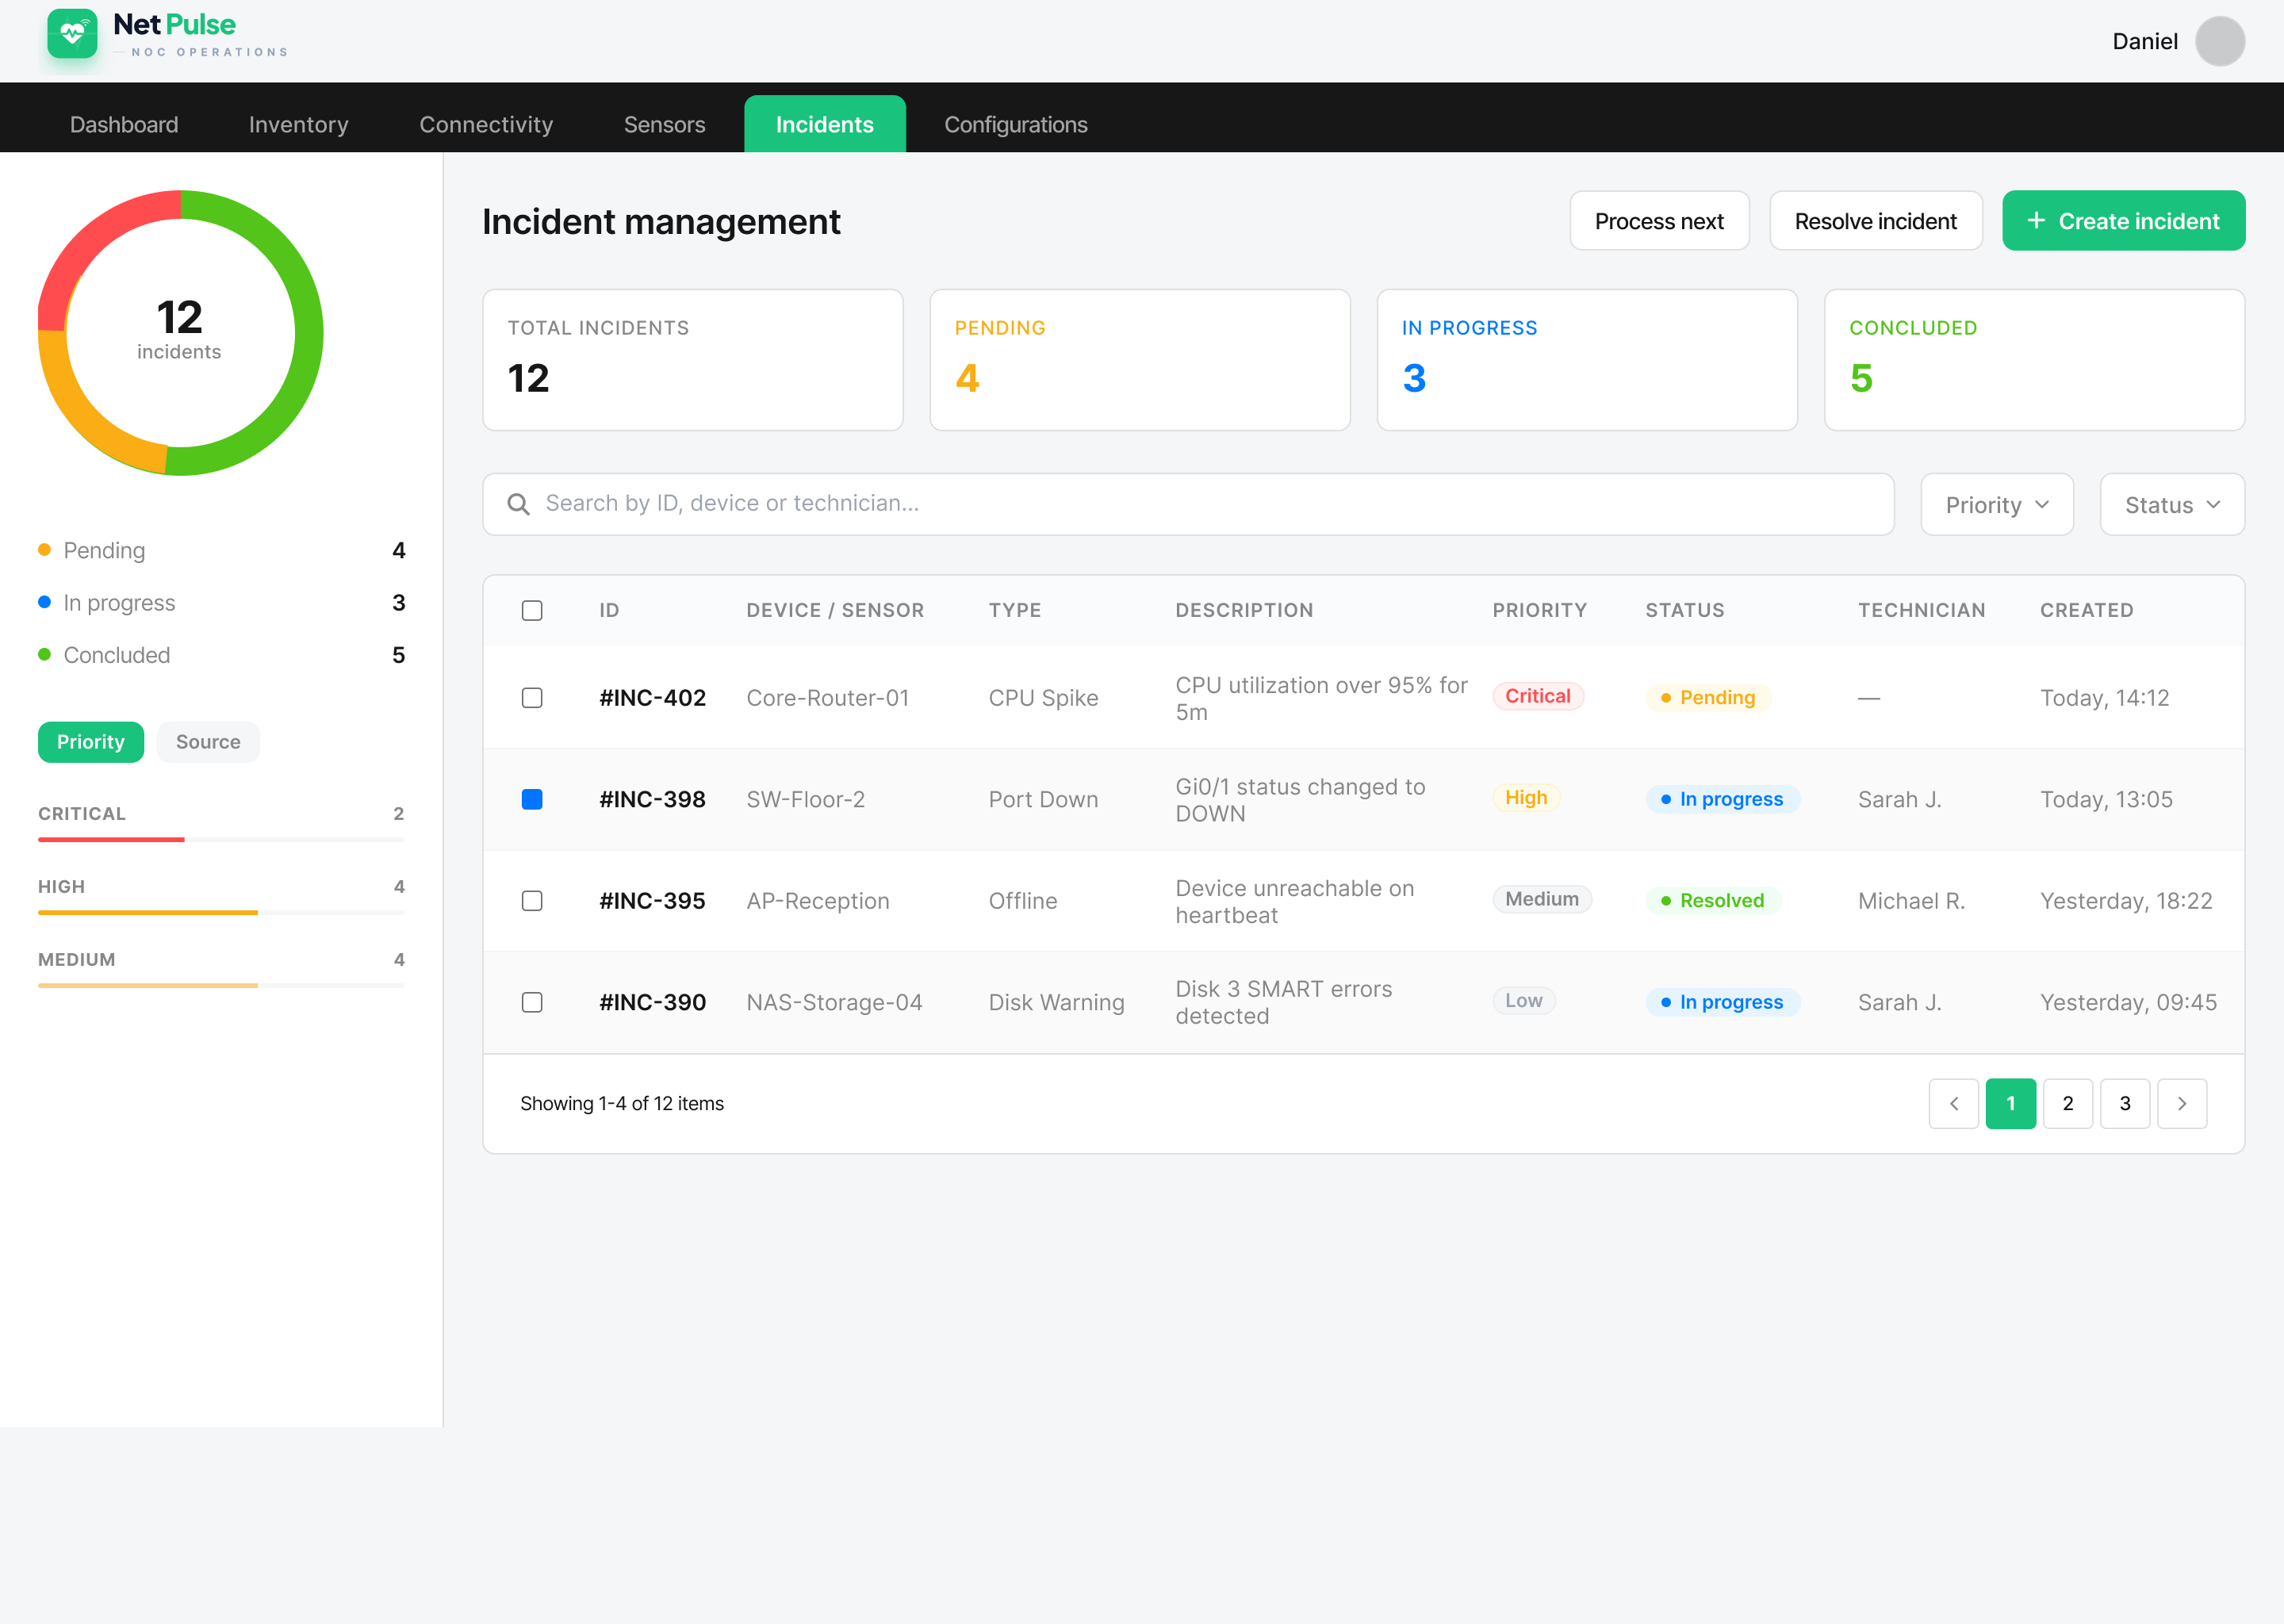
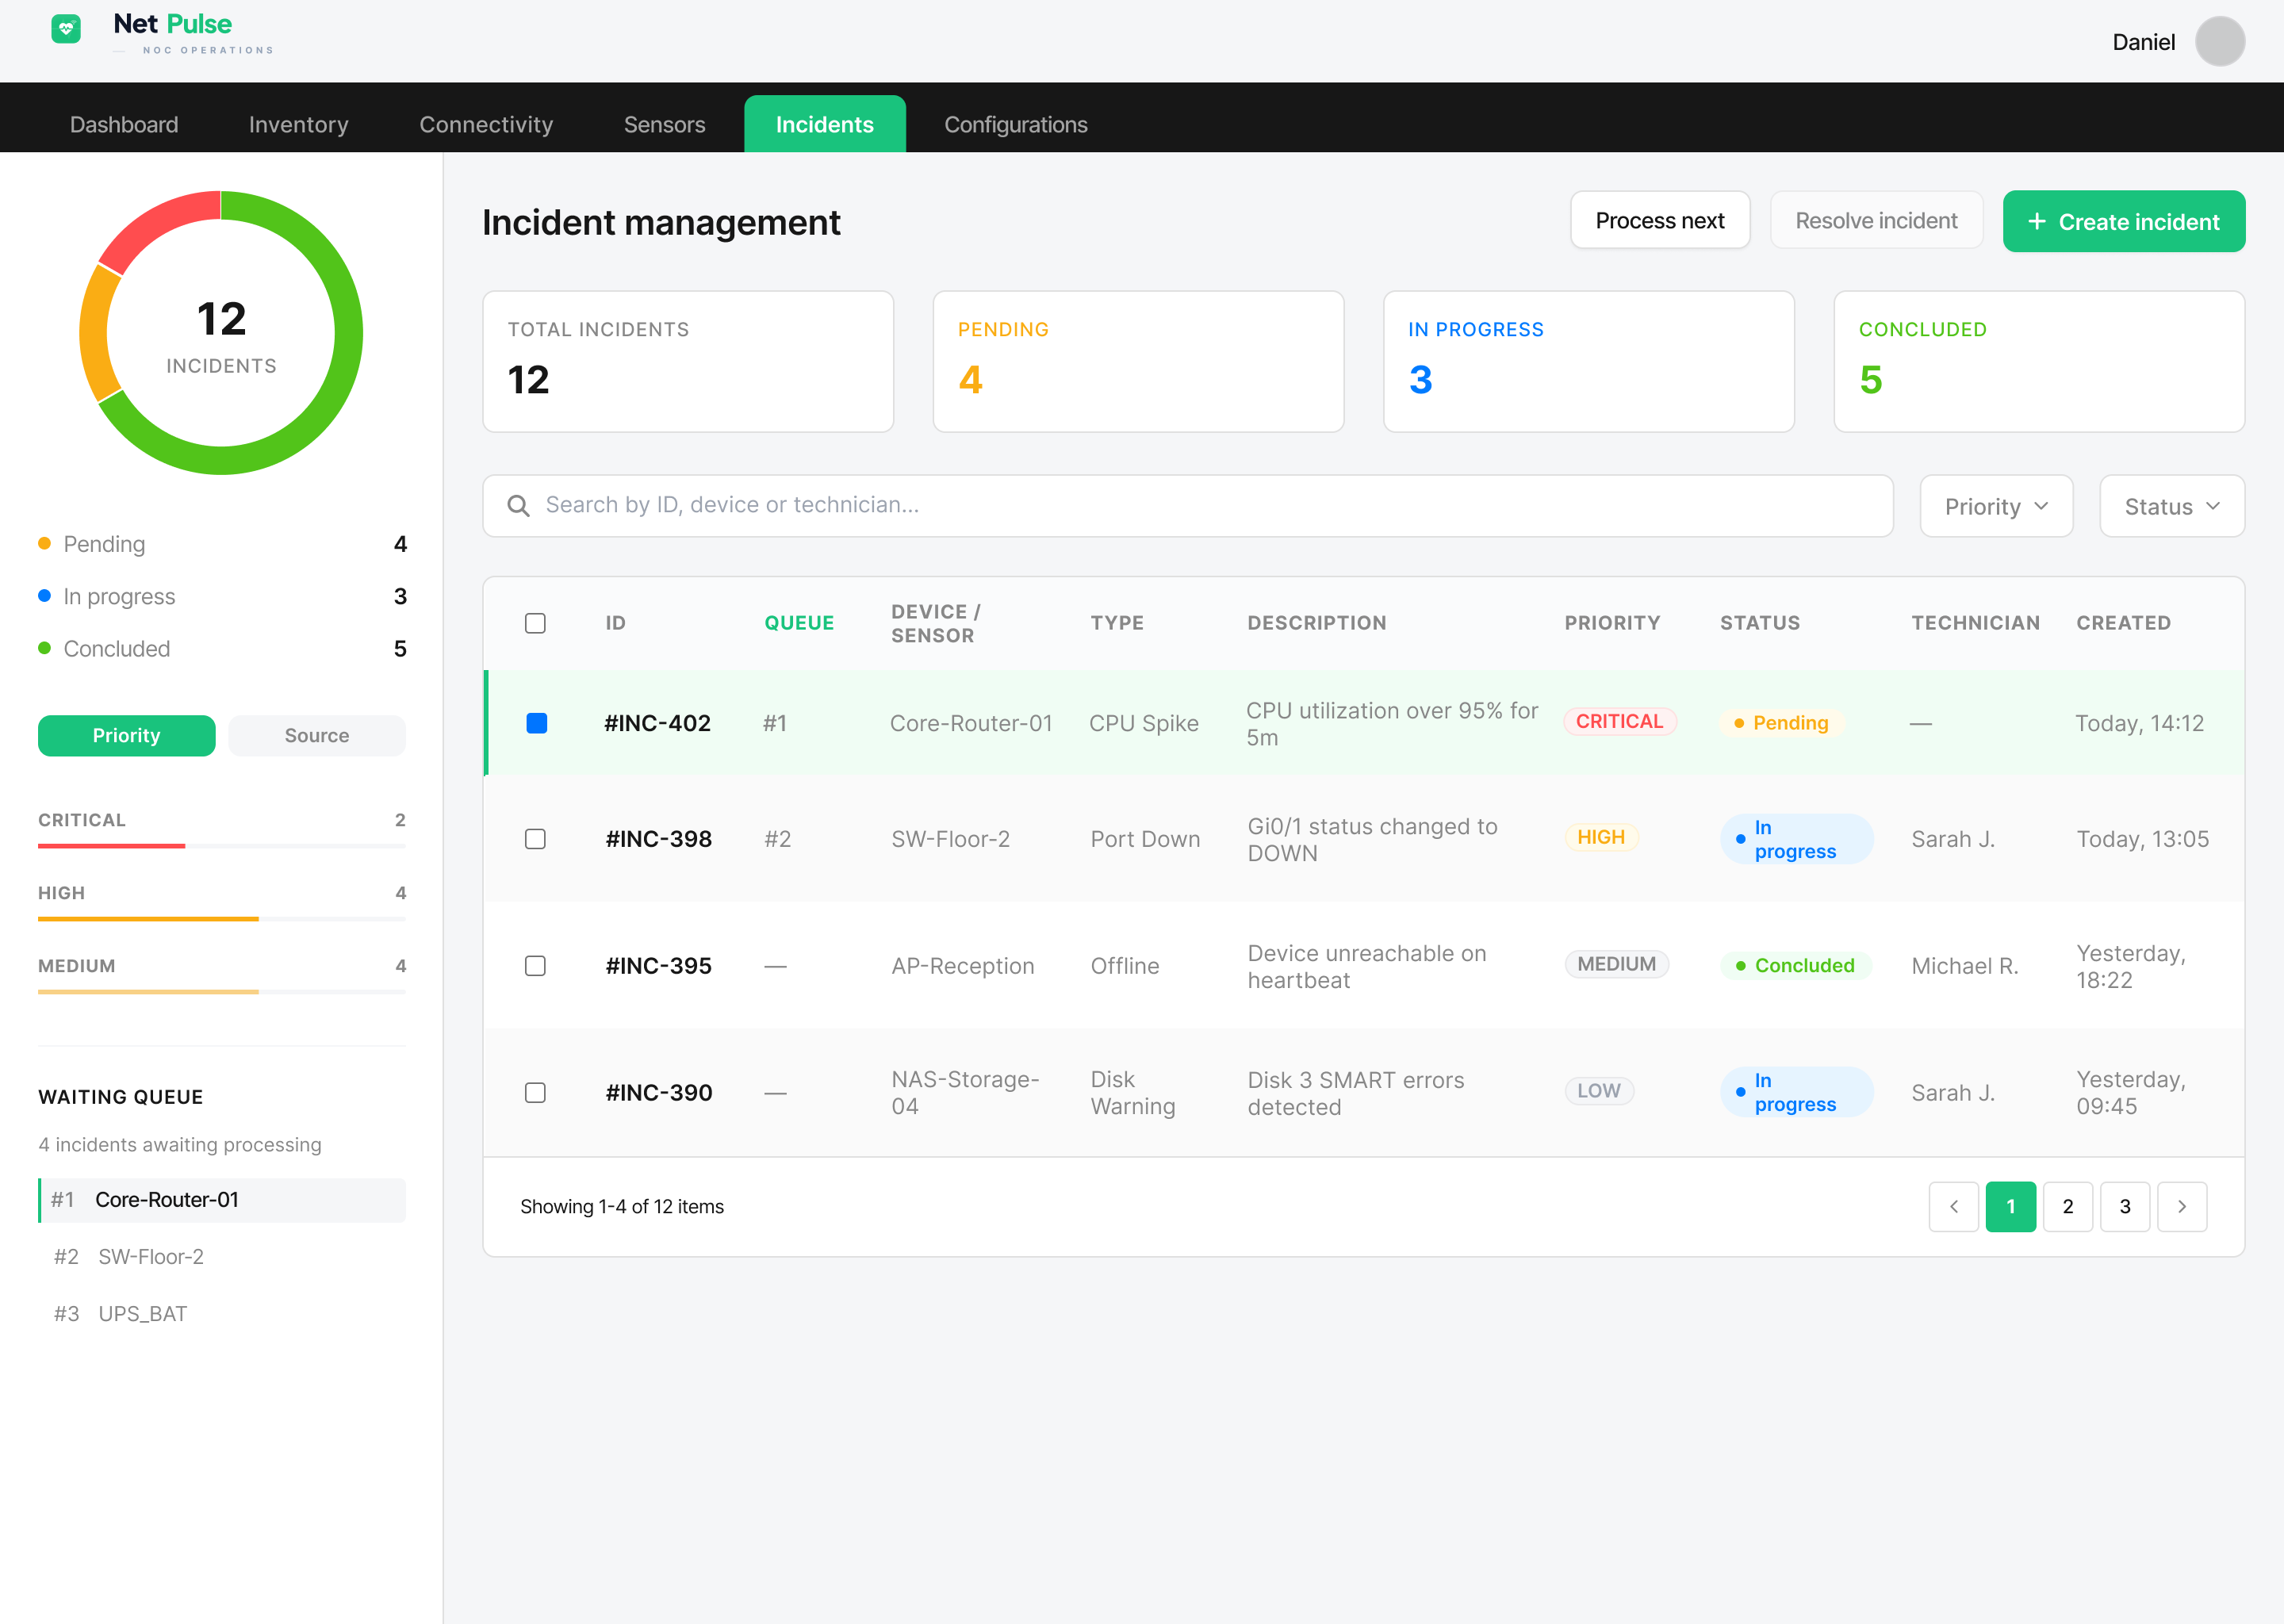
add incident_list_t && implement incident_queue_enqueue()/dequeue() &&  incident_list_insert()

diff --git a/src/incident.c b/src/incident.c
@@ -1,0 +1,54 @@
+#include "incident.h"
+
+#include <stdlib.h>
+
+void incident_queue_enqueue(incident_queue_t *queue, incident_t data)
+{
+  incident_node_t *new = malloc(sizeof(incident_node_t));
+  if (new == NULL) 
+  {
+    // TODO: Implement a log system (ex.: (datatime) [ERROR] incident_queue_enqueue : malloc failed)
+    return;
+  }
+
+  new->data = data;
+  new->next = NULL;
+
+  if (queue->front == NULL)
+  {
+    queue->count = 1;
+    queue->next_number = 1;
+
+    new->data.number = queue->next_number++;
+
+    queue->front = new;
+    queue->rear = new;
+
+    return;
+  }
+
+  new->data.number = queue->next_number++;
+
+  queue->rear->next = new;
+  queue->rear = new;
+
+  queue->count++;
+}
+
+incident_node_t *incident_queue_dequeue(incident_queue_t *queue)
+{
+  if (queue->front == NULL) return;
+
+  node *node = queue->front;
+  
+  queue->front = queue->front->next;
+  if (queue->front == NULL) queue->rear = NULL;
+
+  return node;
+}
+
+void incident_list_insert(incident_list_t *list, incident_node_t *node)
+{
+  node->next = list->head;
+  list->head = node->next;
+}

diff --git a/inc/incident.h b/inc/incident.h
@@ -40,11 +40,21 @@ typedef struct incident_node_t {
   struct incident_node_t *next;
 } incident_node_t;
 
-typedef incident_queue_t {
+typedef struct {
   incident_node_t *front;
   incident_node_t *rear;
   int count;
   int next_number; // TODO: Maybe change the number to a char (ex.: INC-xxx)
-}
+} incident_queue_t;
+
+typedef struct {
+  incident_node_t *head;
+  int count;
+} incident_list_t;
+
+
+void incident_queue_enqueue(incident_queue_t *queue, incident_t data);
+incident_node_t *incident_queue_dequeue(incident_queue_t *queue); // Flow: dequeue() -> return incident_node_t * -> node->data.status = INCIDENT_IN_PROGRESS -> incident_list_insert()
+void incident_list_insert(incident_list_t *list, incident_node_t *node);
 
 #endif

diff --git a/src/equipment.c b/src/equipment.c
@@ -1,11 +1,13 @@
 #include "equipment.h"
 
+#include <stdlib.h>
+
 void equipment_list_insert(equipment_list_t *list, equipment_t data)
 {
   equipment_node_t *new = malloc(sizeof(equipment_node_t));
   if (new == NULL)
   {
-    // TODO: Implement a log system (ex.: (datetime) [ERROR] equipment_list_insert : malloc failed
+    // TODO: Implement a log system (ex.: (datetime) [ERROR] equipment_list_insert : malloc failed)
     return;
   }
 

diff --git a/inc/application.h b/inc/application.h
@@ -13,7 +13,8 @@ typedef struct {
   hashmap_t id_index;
   hashmap_t ip_index;
   hashmap_t mac_index;
-  incident_queue_t incidents;
+  incident_queue_t incidents_pending; // PENDING
+  incident_list_t incidents_history; // IN_PROGRESS + CONCLUDED
   config_stack_t configs;
   sensor_list_t sensors;
   technician_list_t technicians;